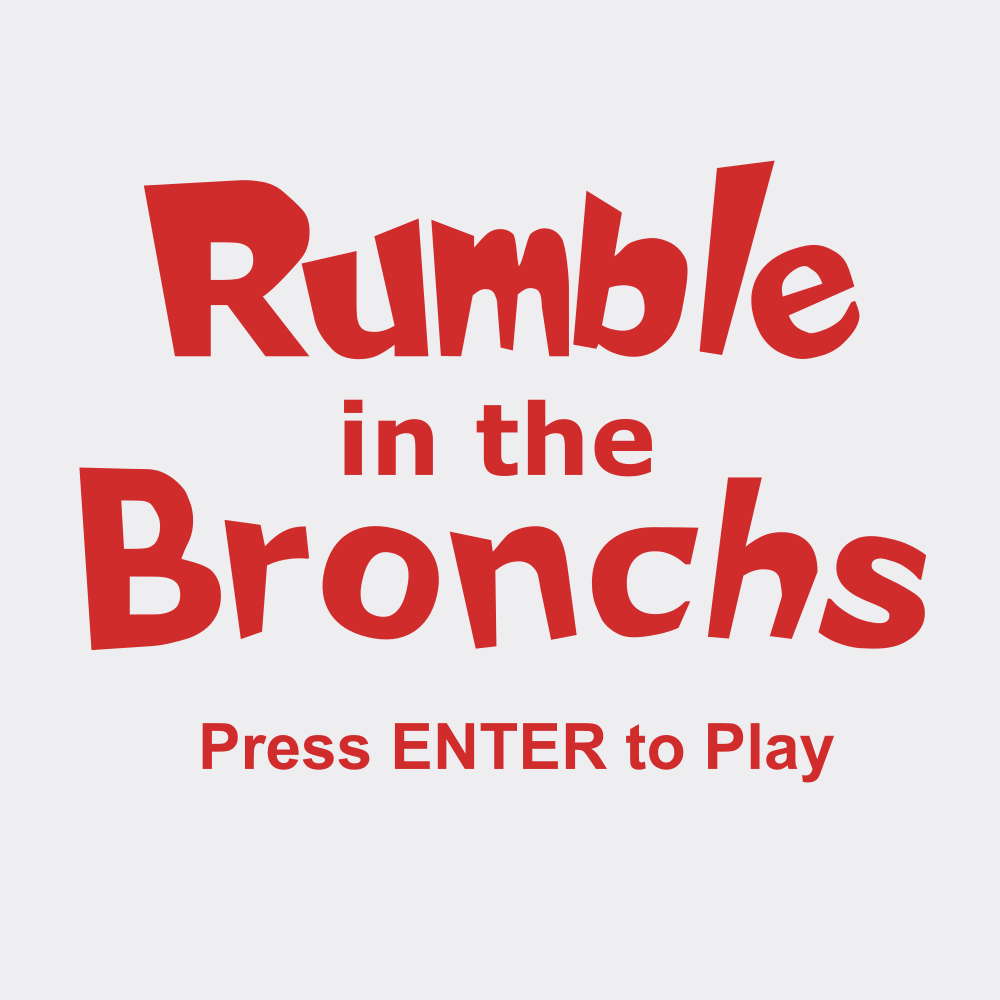
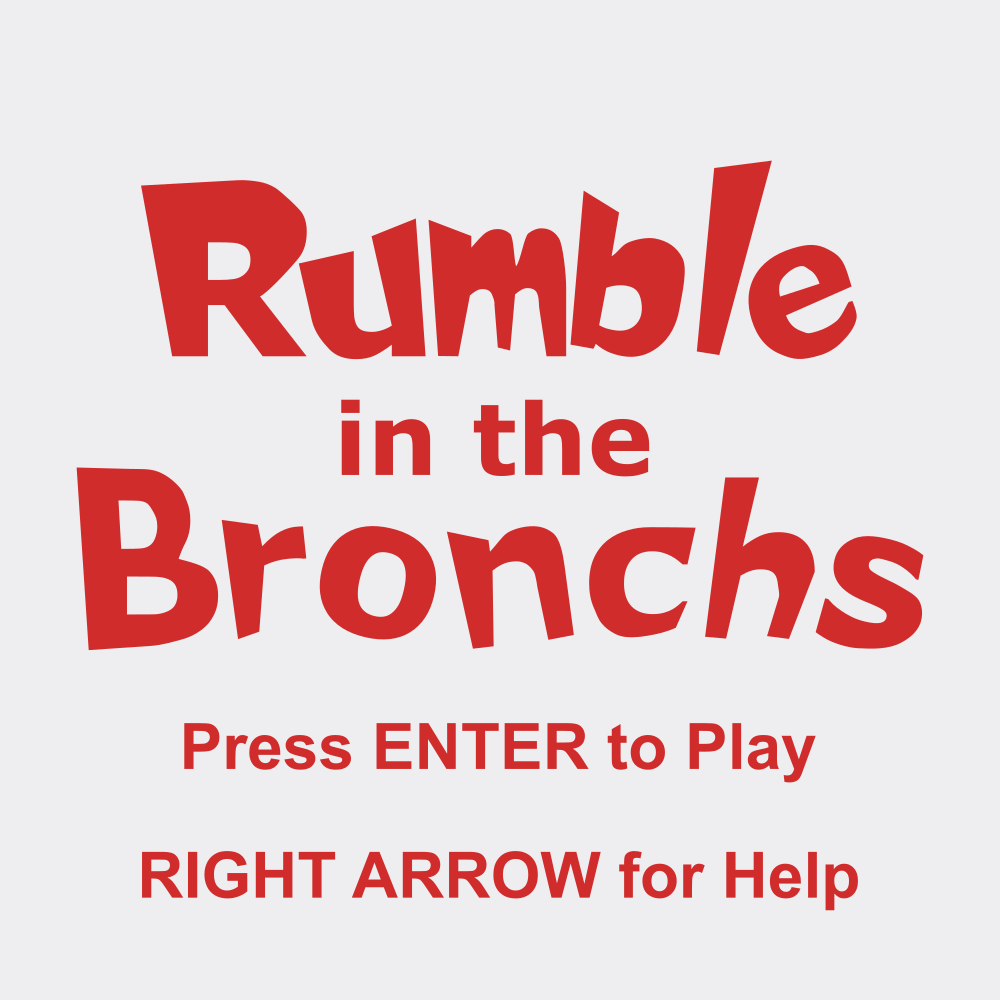
changed welcome scree, removed sounds for gameover

diff --git a/game/game.py b/game/game.py
@@ -96,18 +96,18 @@ def main():
             # util.get_gl_polygon(vertices5).draw(GL_TRIANGLES)
 
     def handle_game_launch():
-        state.frg.image = assets.image_assets["img_start_screen_A"]
+        state.frg.image = assets.image_assets["img_start_screen_C"]
         state.frg.x = 500
         state.frg.y = 500
         state.game_level = 0
 
     def handle_start_screen():
         if key_handler[key.RIGHT]:
-            state.frg.image = assets.image_assets["img_start_screen_B"]
+            state.frg.image = assets.image_assets["img_start_screen_D"]
             state.frg.x = 500
             state.frg.y = 500
         if key_handler[key.LEFT]:
-            state.frg.image = assets.image_assets["img_start_screen_A"]
+            state.frg.image = assets.image_assets["img_start_screen_C"]
             state.frg.x = 500
             state.frg.y = 500
         if key_handler[key.ENTER]:
@@ -127,7 +127,6 @@ def main():
             state.player_life = 100
             state.score = 0
             remove_all_non_essential_game_objects()
-            p.play()
             load_stage_1()
 
     def handle_win_screen():
@@ -143,14 +142,11 @@ def main():
             state.player_life = 100
             state.score = 0
             remove_all_non_essential_game_objects()
-            p.play()
             load_stage_1()
 
     def handle_level_change():
         if state.game_level == -2:
             print("here")
-            p.pause()
-            assets.audio_assets["snd_game_over"].play()
             remove_all_non_essential_game_objects()
             handle_game_over_screen()
 
@@ -171,13 +167,9 @@ def main():
             remove_all_non_essential_game_objects()
             load_stage_3()
         elif state.game_level == 4:
-            p.pause()
-            assets.audio_assets["snd_win"].play()
             remove_all_non_essential_game_objects()
             handle_win_screen()
         elif state.game_level == -2:
-            p.pause()
-            assets.audio_assets["snd_game_over"].play()
             remove_all_non_essential_game_objects()
             handle_game_over_screen()
 

diff --git a/game/modules/game_assets.py b/game/modules/game_assets.py
@@ -100,6 +100,7 @@ class GameAssets():
         self.create_image_asset("img_start_screen_A", "images/start_screen_a.png", True)
         self.create_image_asset("img_start_screen_B", "images/start_screen_b.png", True)
         self.create_image_asset("img_start_screen_C", "images/start_screen_c.png", True)
+        self.create_image_asset("img_start_screen_D", "images/start_screen_d.png", True)
         self.create_image_asset("img_game_over", "images/game_over_screen.png", True)
         self.create_image_asset("img_win", "images/win_screen.png", True)
 
